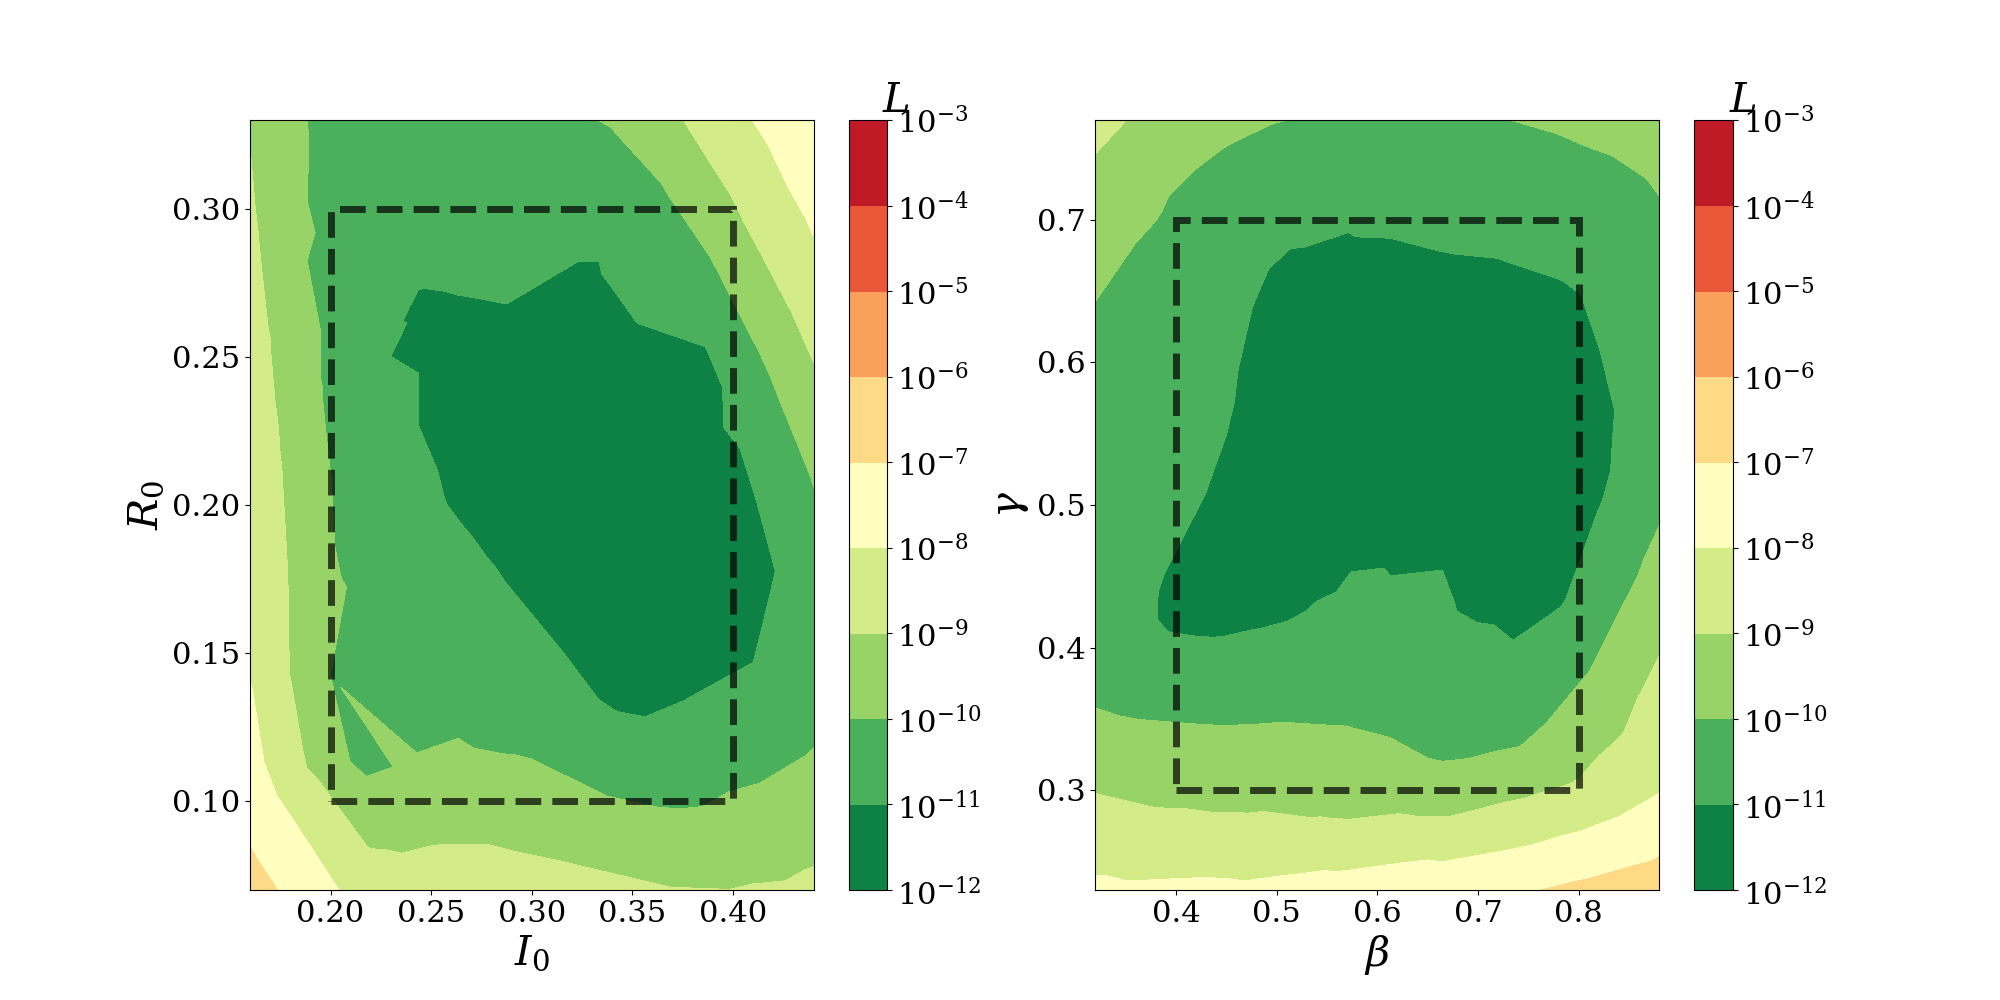
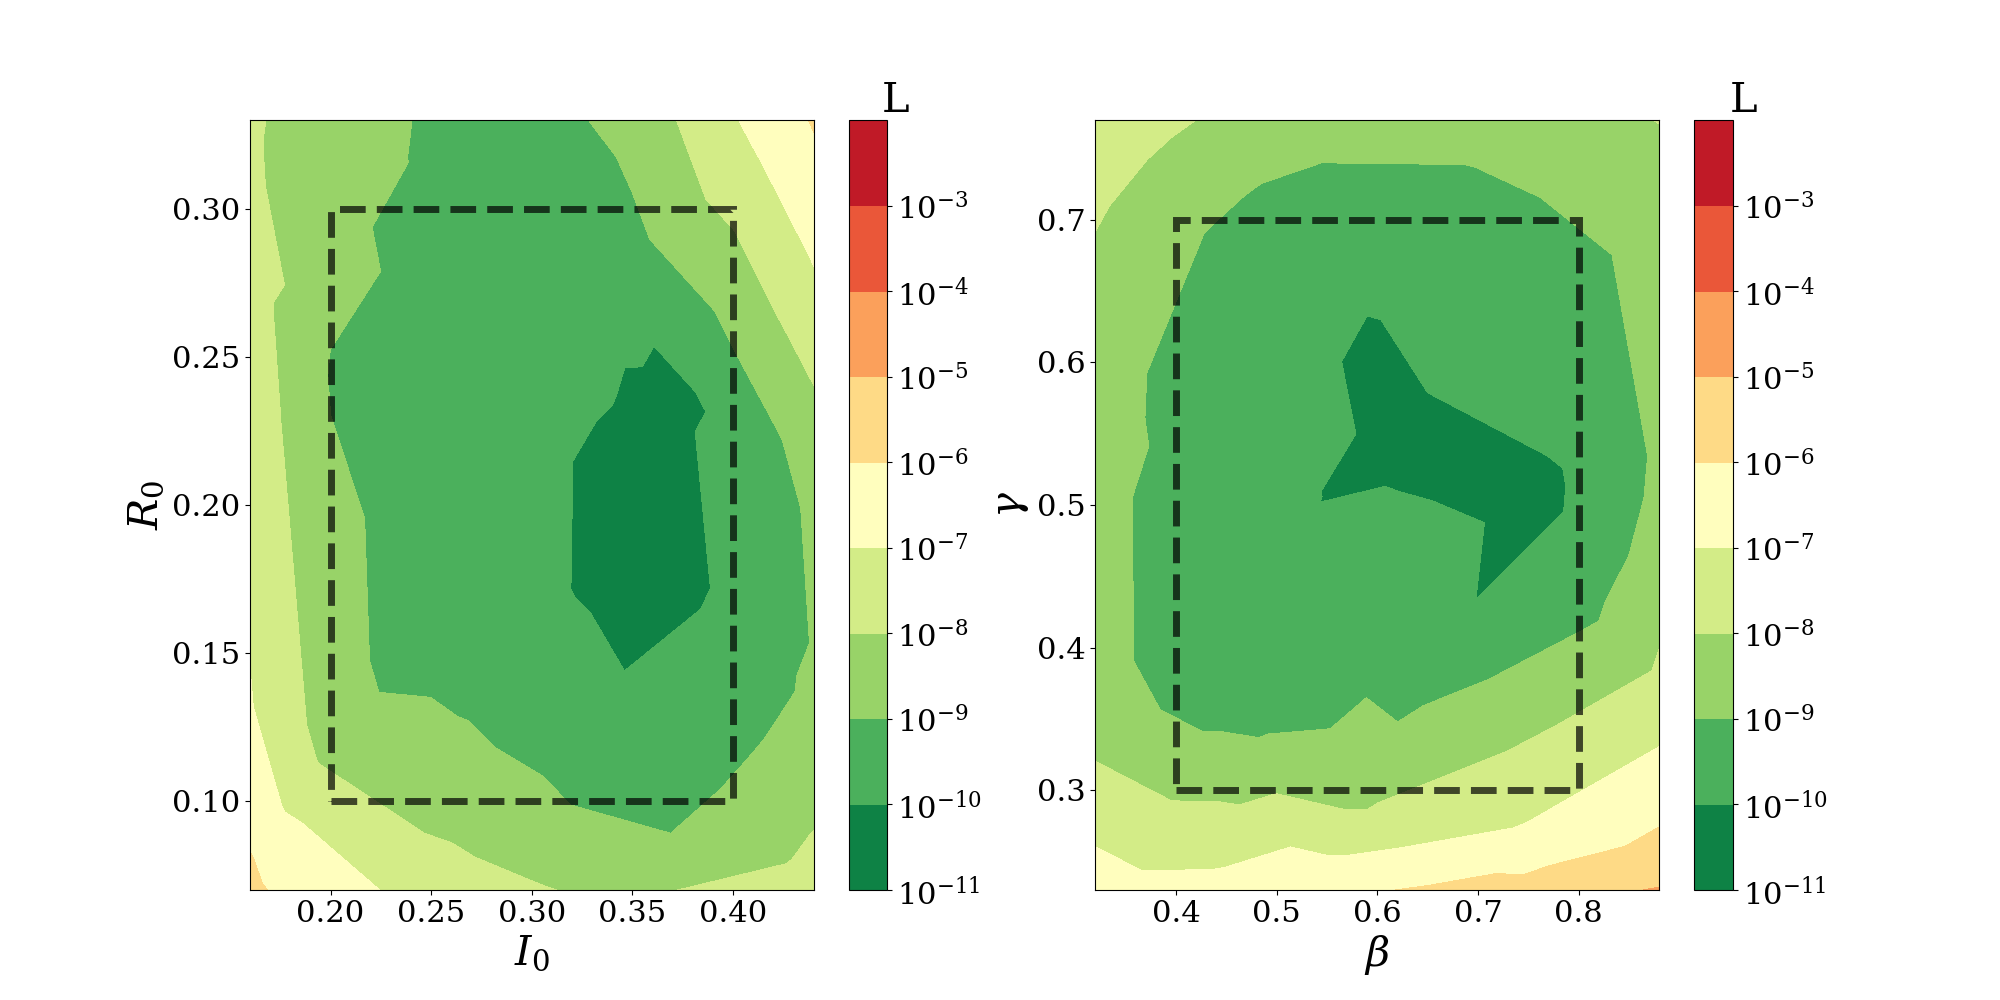
plotting

diff --git a/sensitivity_validation.py b/sensitivity_validation.py
@@ -24,14 +24,14 @@ if __name__ == '__main__':
     t_final = 20
 
     # Compute the interval in which the equation parameters and the initial conditions should vary
-    i_0_set = [0.2, 0.4]
-    r_0_set = [0.1, 0.3]
-    betas = [0., 0.4]
-    gammas = [0.4, 0.7]
-    # i_0_set = [0.4, 0.6]
+    # i_0_set = [0.2, 0.4]
     # r_0_set = [0.1, 0.3]
-    # betas = [0.45, 0.65]
-    # gammas = [0.05, 0.15]
+    # betas = [0., 0.4]
+    # gammas = [0.4, 0.7]
+    i_0_set = [0.4, 0.6]
+    r_0_set = [0.1, 0.3]
+    betas = [0.45, 0.65]
+    gammas = [0.05, 0.15]
     initial_conditions_set = []
     initial_conditions_set.append(t_0)
     initial_conditions_set.append(i_0_set)
@@ -111,14 +111,14 @@ if __name__ == '__main__':
         force_init = True
     else:
         # Synthetic data
-        exact_i_0 = 0.25
-        exact_r_0 = 0.15
-        exact_beta = 0.2
-        exact_gamma = 0.5
-        # exact_i_0 = 0.5
-        # exact_r_0 = 0.2
-        # exact_beta = 0.55
-        # exact_gamma = 0.1
+        # exact_i_0 = 0.25
+        # exact_r_0 = 0.15
+        # exact_beta = 0.2
+        # exact_gamma = 0.5
+        exact_i_0 = 0.5
+        exact_r_0 = 0.2
+        exact_beta = 0.55
+        exact_gamma = 0.1
         data_prelock = get_syntethic_data(sir, t_final=t_final, i_0=exact_i_0, r_0=exact_r_0, exact_beta=exact_beta,
                                           exact_gamma=exact_gamma,
                                           size=20)
@@ -189,7 +189,7 @@ if __name__ == '__main__':
         # Fit n_trials time and take the best fitting
         for j in range(n_trials):
             # Search optimal params
-            optimal_i_0, optimal_r_0, optimal_beta, optimal_gamma, val_losses = fit(sir,
+            optimal_i_0, optimal_r_0, optimal_beta, optimal_gamma, min_val_loss, val_losses = fit(sir,
                                                                                     init_bundle=initial_conditions_set,
                                                                                     betas=betas,
                                                                                     gammas=gammas,
@@ -209,9 +209,9 @@ if __name__ == '__main__':
 
             optimal_s_0 = 1 - (optimal_i_0 + optimal_r_0)
 
-            if val_losses[-1] <= min_loss:
+            if min_val_loss <= min_loss:
                 optimal_subset = [optimal_i_0, optimal_r_0, optimal_beta, optimal_gamma]
-                min_loss = val_losses[-1]
+                min_loss = min_val_loss
 
         optimal_set.append(optimal_subset)
 
@@ -308,16 +308,17 @@ if __name__ == '__main__':
 
     plt.figure(figsize=(8, 5))
 
+
     plt.title(title)
     ax1 = plt.gca()
     ax1.xaxis.set_tick_params(labelsize=ticksize)
     ax1.yaxis.set_tick_params(labelsize=ticksize)
-    ax1.plot(x_infected, infected_mean, label='Infected - Predicted', color=blue)
+    ax1.plot(x_infected, infected_mean, linewidth=3, label='Infected - Predicted', color=blue, zorder=1)
     ax1.fill_between(x=x_infected, y1=infected_mean + 2 * infected_std,
-                     y2=infected_mean - 2 * infected_std, alpha=0.3, color=blue)
-    ax1.scatter(x_valid, valid_infected, label='Validation points', color=red, marker=marker)
+                     y2=infected_mean - 2 * infected_std, alpha=0.3, color=blue, zorder=2,)
+    ax1.scatter(x_valid, valid_infected, label='Validation points', color=red, marker=marker, zorder=3)
     ax1.errorbar(x=x_train, y=known_infected_prelock, yerr=noise_std, label='Training points', color=green,
-                 fmt=marker)
+                 fmt=marker, zorder=4)
     ax1.legend(loc='best')
 
     ax1.set_xlabel('$t$', fontsize=labelsize)
@@ -337,24 +338,24 @@ if __name__ == '__main__':
 
     plt.savefig(ROOT_DIR + '/plots/sensitivity_val_{}.png'.format(ts))
 
-    plt.figure(figsize=(8, 5))
-    plt.title(title)
-    ax2 = plt.gca()
-    ax2.xaxis.set_tick_params(labelsize=ticksize)
-    ax2.yaxis.set_tick_params(labelsize=ticksize)
-    ax2.plot(x_recovered, recovered_mean, label='Predicted', color=blue)
-    ax2.fill_between(x=x_recovered, y1=recovered_mean + 2 * recovered_std,
-                     y2=recovered_mean - 2 * recovered_std, alpha=0.3, color=blue)
-    ax2.scatter(x=x_train, y=known_recovered_prelock, label='Training points',
-                color=green, marker=marker)
-    ax2.scatter(x_valid, valid_recovered, label='Validation points', color=red, marker=marker)
-    ax2.legend(loc='best')
-    ax2.set_xlabel('$t$', fontsize=labelsize)
-    ax2.set_ylabel('$R(t)$', fontsize=labelsize)
-
-    plt.xticks(fontsize=ticksize / 1.5)
-    plt.yticks(fontsize=ticksize / 1.5)
-    plt.tight_layout()
+    # plt.figure(figsize=(8, 5))
+    # plt.title(title)
+    # ax2 = plt.gca()
+    # ax2.xaxis.set_tick_params(labelsize=ticksize)
+    # ax2.yaxis.set_tick_params(labelsize=ticksize)
+    # ax2.plot(x_recovered, recovered_mean, linewidth=3, label='Predicted', color=blue, zorder=1)
+    # ax2.fill_between(x=x_recovered, y1=recovered_mean + 2 * recovered_std,
+    #                  y2=recovered_mean - 2 * recovered_std, alpha=0.3, color=blue, zorder=2)
+    # ax2.scatter(x=x_train, y=known_recovered_prelock, label='Training points',
+    #             color=green, marker=marker, zorder=3)
+    # ax2.scatter(x_valid, valid_recovered, label='Validation points', color=red, marker=marker, zorder=4)
+    # ax2.legend(loc='best')
+    # ax2.set_xlabel('$t$', fontsize=labelsize)
+    # ax2.set_ylabel('$R(t)$', fontsize=labelsize)
+    #
+    # plt.xticks(fontsize=ticksize / 1.5)
+    # plt.yticks(fontsize=ticksize / 1.5)
+    # plt.tight_layout()
 
     plt.show()
 

diff --git a/data_fitting.py b/data_fitting.py
@@ -5,6 +5,7 @@ import copy
 import numpy as np
 from numpy.random import uniform
 
+
 def fit(model, init_bundle, betas, gammas, known_points, validation_data, writer, epochs=100, lr=8e-4, loss_mode='mse',
         susceptible_weight=1., infected_weight=1., n_batches=2,
         recovered_weight=1., force_init=False, verbose=False):
@@ -47,12 +48,10 @@ def fit(model, init_bundle, betas, gammas, known_points, validation_data, writer
     val_losses = []
     min_val_loss = 1000
 
-
     # Iterate for epochs to find best initial conditions, beta, and gamma that optimizes the MSE/Cross Entropy between
     # my prediction and the real data
     for epoch in tqdm(range(epochs), desc='Finding the best inputs', disable=not verbose):
         optimizer.zero_grad()
-
 
         batch_filling = 0.
 
@@ -137,13 +136,12 @@ def fit(model, init_bundle, betas, gammas, known_points, validation_data, writer
         # Validation loss
         val_loss = 0.
         for idx, t in enumerate(validation_data):
-
             target = validation_data[t]
 
             t_tensor = torch.Tensor([t]).reshape(-1, 1)
 
             s_hat, i_hat, r_hat = model.parametric_solution(t_tensor, initial_conditions, beta=beta,
-                                                                   gamma=gamma)
+                                                            gamma=gamma)
             s_target = target[0]
             i_target = target[1]
             r_target = target[2]
@@ -159,13 +157,12 @@ def fit(model, init_bundle, betas, gammas, known_points, validation_data, writer
 
         if val_loss < min_val_loss:
             min_val_loss = val_loss
-            optimal_i_0, optimal_r_0, optimal_p_0, optimal_beta, optimal_gamma = copy.deepcopy(i_0), copy.deepcopy(
-                r_0), copy.deepcopy(p_0), copy.deepcopy(beta), copy.deepcopy(gamma),
+            optimal_i_0, optimal_r_0, optimal_beta, optimal_gamma = copy.deepcopy(i_0), copy.deepcopy(
+                r_0), copy.deepcopy(beta), copy.deepcopy(gamma)
 
         val_losses.append(val_loss)
 
-
-    return optimal_i_0, optimal_r_0, optimal_p_0, optimal_beta, optimal_gamma, min_val_loss, val_losses
+    return optimal_i_0, optimal_r_0, optimal_beta, optimal_gamma, min_val_loss, val_losses
 
 
 def cross_entropy(predictions, targets, epsilon=1e-12):

diff --git a/multi_loss_analysis.py b/multi_loss_analysis.py
@@ -51,8 +51,8 @@ if __name__ == '__main__':
         sir.load_state_dict(checkpoint['model_state_dict'])
         models.append(sir)
 
-    n_draws = 300
-    steps = 20000
+    n_draws = 150
+    steps = 6000
 
     # Will save the loss as a function of initial conditions
     init_losses = {}
@@ -182,7 +182,7 @@ if __name__ == '__main__':
     plt.ylim(max(0, r_0_set[0] - r_0_std/3), max(0, r_0_set[1] + r_0_std/3))
     clb = plt.colorbar(ticks=[-3, -4, -5, -6, -7, -8, -9, -10, -11, -12], format=ticker.FuncFormatter(fmt))
     clb.ax.tick_params(labelsize=ticksize)
-    clb.set_label('$L$', labelpad=-62, y=1.05, rotation=0, fontsize=labelsize)
+    clb.set_label('L', labelpad=-62, y=1.05, rotation=0, fontsize=labelsize)
     # plt.show()
     plt.subplot(1, 2, 2)
 
@@ -203,6 +203,6 @@ if __name__ == '__main__':
     plt.ylim(max(0, gammas[0] - gammas_std/3), max(0, gammas[1] + gammas_std/3))
     clb = plt.colorbar(ticks=[-3, -4, -5, -6, -7, -8, -9, -10, -11, -12], format=ticker.FuncFormatter(fmt))
     clb.ax.tick_params(labelsize=ticksize)
-    clb.set_label('$L$', labelpad=-60.5, y=1.05, rotation=0, fontsize=labelsize)
+    clb.set_label('L', labelpad=-60.5, y=1.05, rotation=0, fontsize=labelsize)
     plt.savefig(ROOT_DIR + '/multi_loss_analysis.png')
     plt.show()

diff --git a/sm_comparison.py b/sm_comparison.py
@@ -26,7 +26,7 @@ plt.plot(no_sm, color=red, label='Linear activation')
 plt.plot(sm, color=green, label='Softmax activation')
 plt.xticks(fontsize=ticksize)
 plt.yticks(fontsize=ticksize)
-plt.xlabel('$Epochs$', fontsize=legendsize)
-plt.ylabel(r'$L$', fontsize=legendsize)
+plt.xlabel('Epochs', fontsize=legendsize)
+plt.ylabel(r'Loss', fontsize=legendsize)
 plt.legend(loc='best', fontsize=legendsize)
 plt.show()

diff --git a/constants.py b/constants.py
@@ -16,3 +16,4 @@ magenta = '#FF0062'
 ticksize = 22
 labelsize = 30
 legendsize = 25
+mylinewidth = 15
